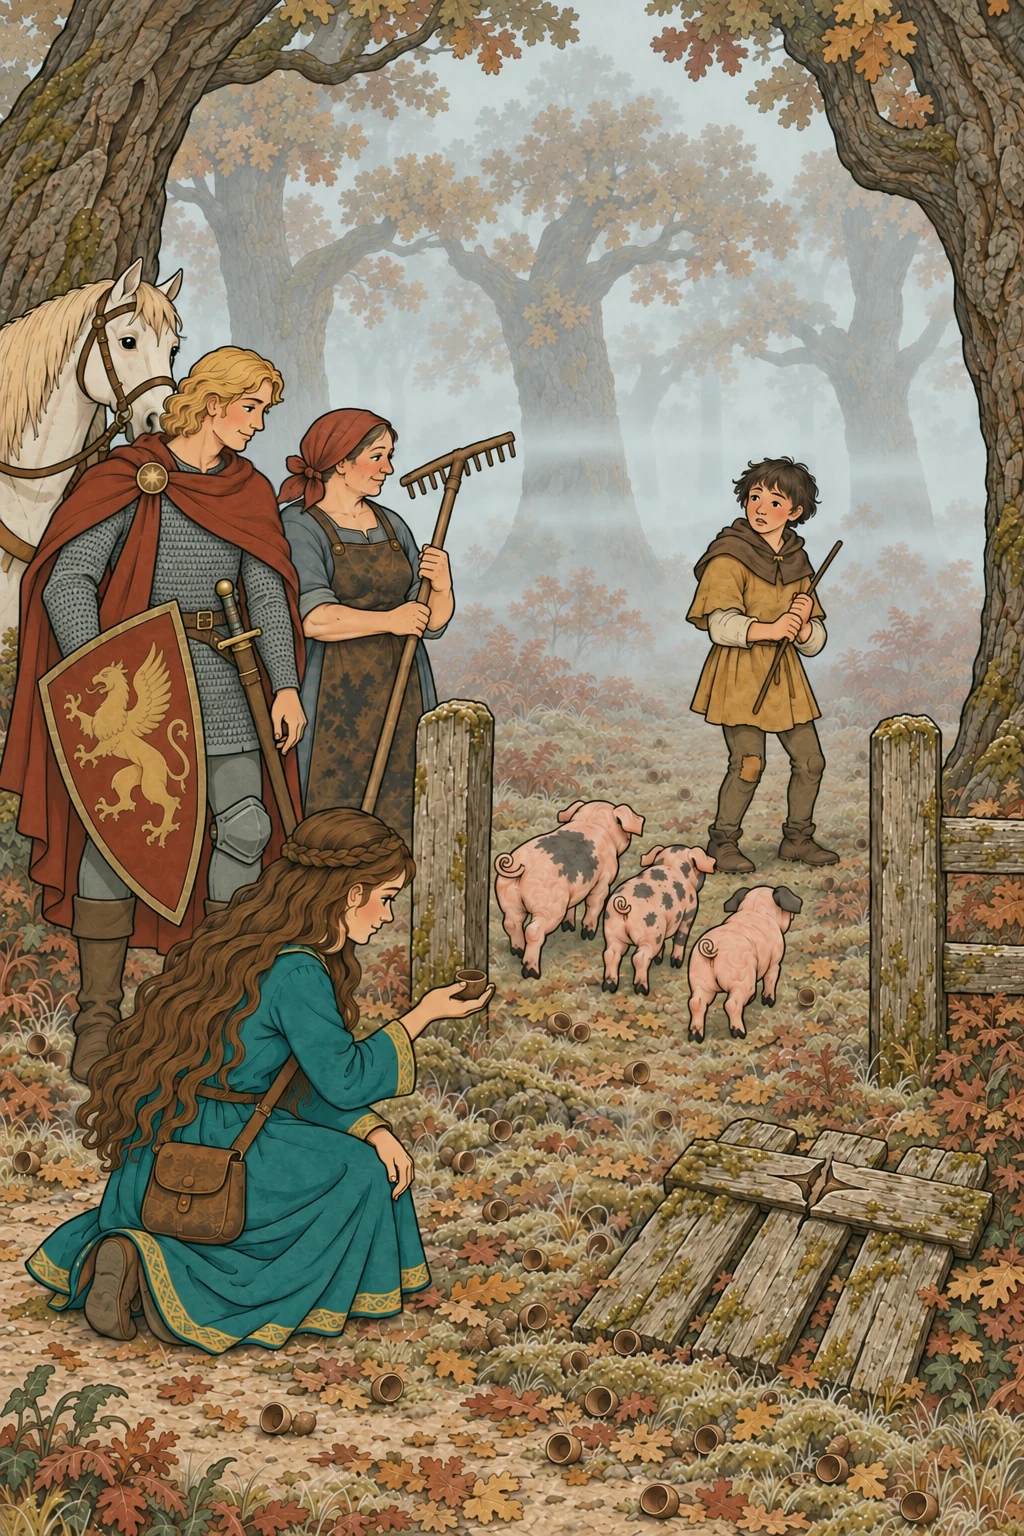
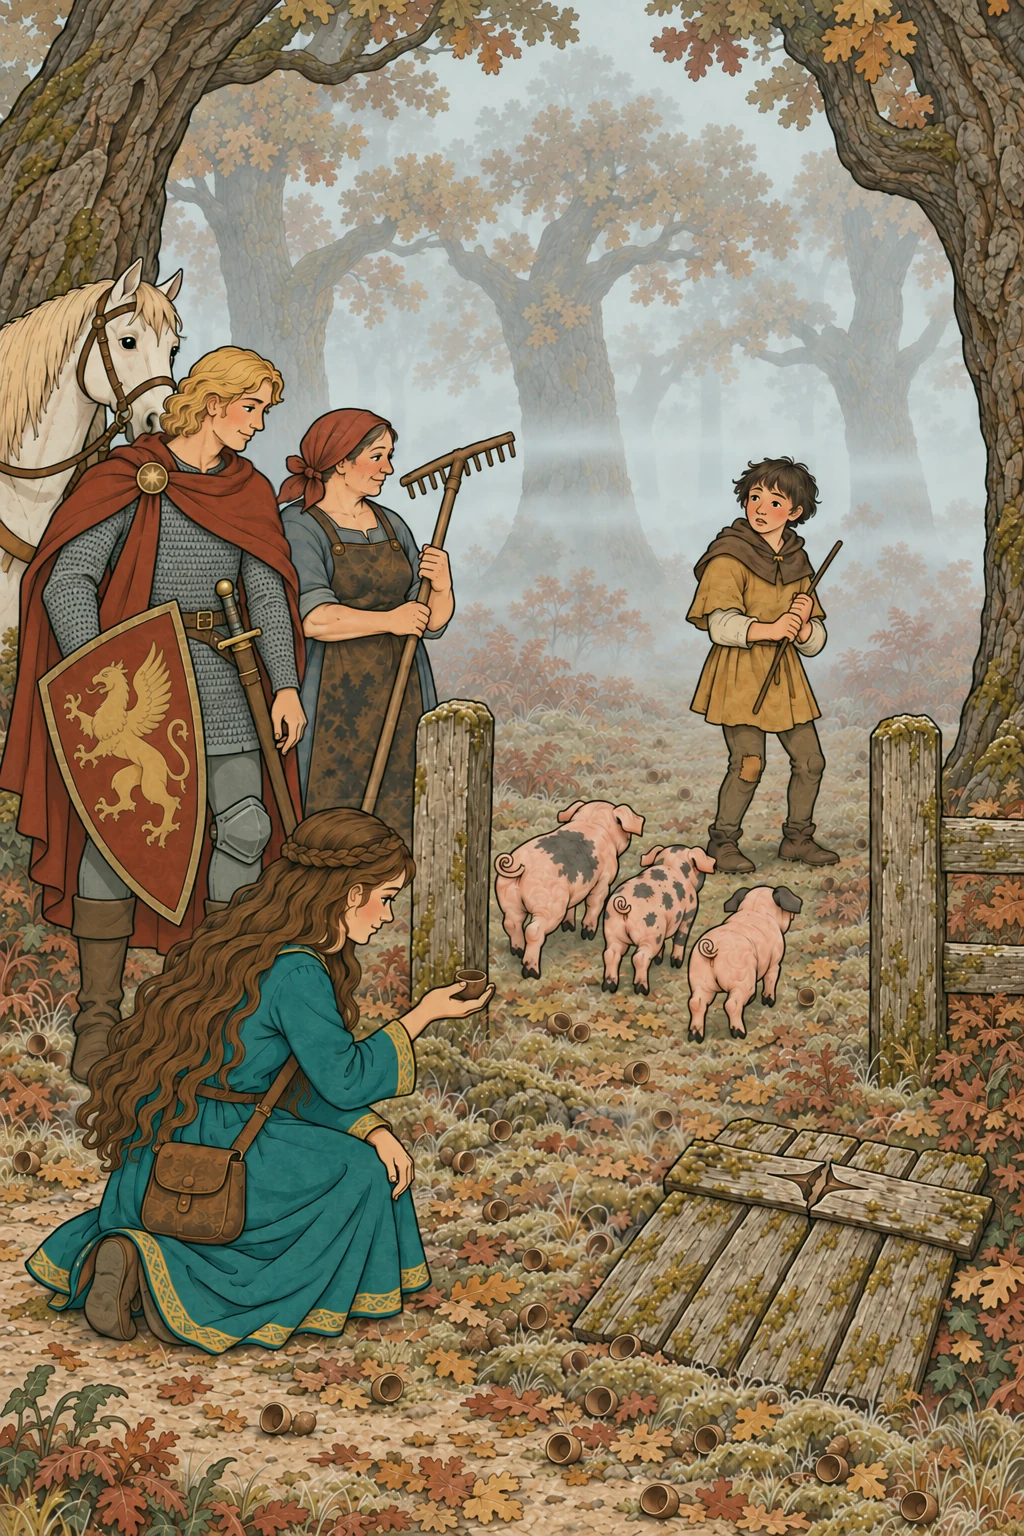
Forest old gate with four planks on p3 follow-piglets and p5 ask-kindly, as on every other page

Changed region(s): [[0.5312, 0.7188, 0.9688, 0.9375]]

diff --git a/prototypes/prompts/_build_forest.py b/prototypes/prompts/_build_forest.py
@@ -605,6 +605,20 @@ again("fo-p9-help-fawn", "fo-p9-help-fawnm", "fo-p9-help-fawnn", "everything exc
 # fo-p8m/n = k with the stag's star repainted by hand as crisp gold leaf with an ink edge (generation l stayed soft);
 # fo-p10-make-wayd = make-wayb + the gate from c (c's vines were heavier than the pair's); title: orn-title-forestc whole
 # (b ruled hard stripes across the stag), exported with export_webp.py directly.
+# Author 2026-11-01: the old gate has FOUR upright planks on p3 call-back, p4, p5 show-tracks, p6 and p7, but three on
+# p3 follow-piglets and p5 ask-kindly. Only the planks change; the crossbar and its transplanted star are kept by compositing.
+FOUR = ("the OLD broken grey gate has EXACTLY FOUR upright weathered grey planks side by side under its crossbar (not three), "
+        "the gate keeping the same overall width and place; the crossbar and its split carved star stay exactly as they are.")
+again("fo-p3-follow-piglets", "fo-p3-follow-pigletsf", "fo-p3-follow-pigletsg", "everything except the planks of the broken gate lying in the grass",
+      FOUR, neg="no three-plank gate; no fifth plank")
+again("fo-p5-ask-kindly", "fo-p5-ask-kindlyi", "fo-p5-ask-kindlyj", "everything except the planks of the broken gate Gustaw lifts",
+      FOUR + " Gustaw still lifts it with both hands in the same pose.", neg="no three-plank gate; no fifth plank")
+# p3 pigletsg drew five planks; h asks again with the count spelled out
+again("fo-p3-follow-piglets", "fo-p3-follow-pigletsf", "fo-p3-follow-pigletsh", "everything except the planks of the broken gate lying in the grass",
+      FOUR + " Count them: one, two, three, four broad planks lying side by side under the crossbar, the same width as on page 5, where Gustaw lifts this gate.",
+      neg="no three-plank gate; no five planks; no narrow planks")
+# Shipped: fo-p5-ask-kindlyk = i + the four planks from j (crossbar and star kept); fo-p3-follow-pigletsi = f + the whole four-plank gate from h.
+
 
 def emblem_again(pid, rev, keep, change, extra_neg=""):
     """Regenerate an emblem from its own take (refs/<pid>-composition.png), changing one thing."""
